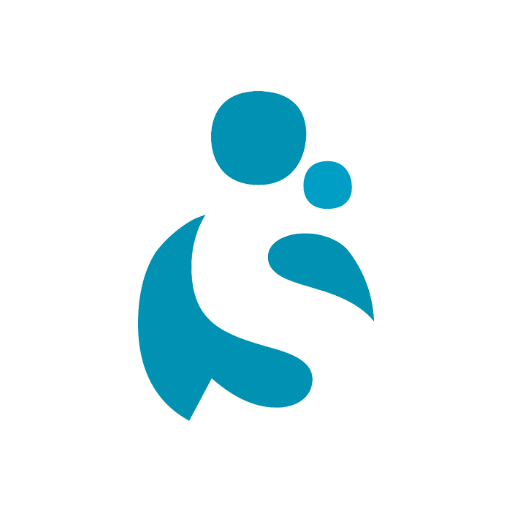
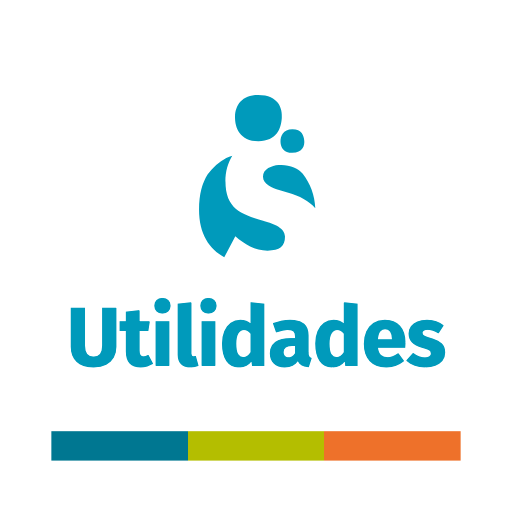
Iconos nuevos de la app: símbolo + nombre de la web

Changed region(s): [[0.0938, 0.1562, 0.9062, 0.9062]]

diff --git a/sw.js b/sw.js
@@ -1,6 +1,6 @@
 // Permite instalar el portal como app y abrirlo sin conexión.
 // Si cambias la lista de archivos, sube también el número de VERSION.
-const VERSION = "v1";
+const VERSION = "v2";
 const CACHE = `utilidades-${VERSION}`;
 
 const APP_SHELL = [
